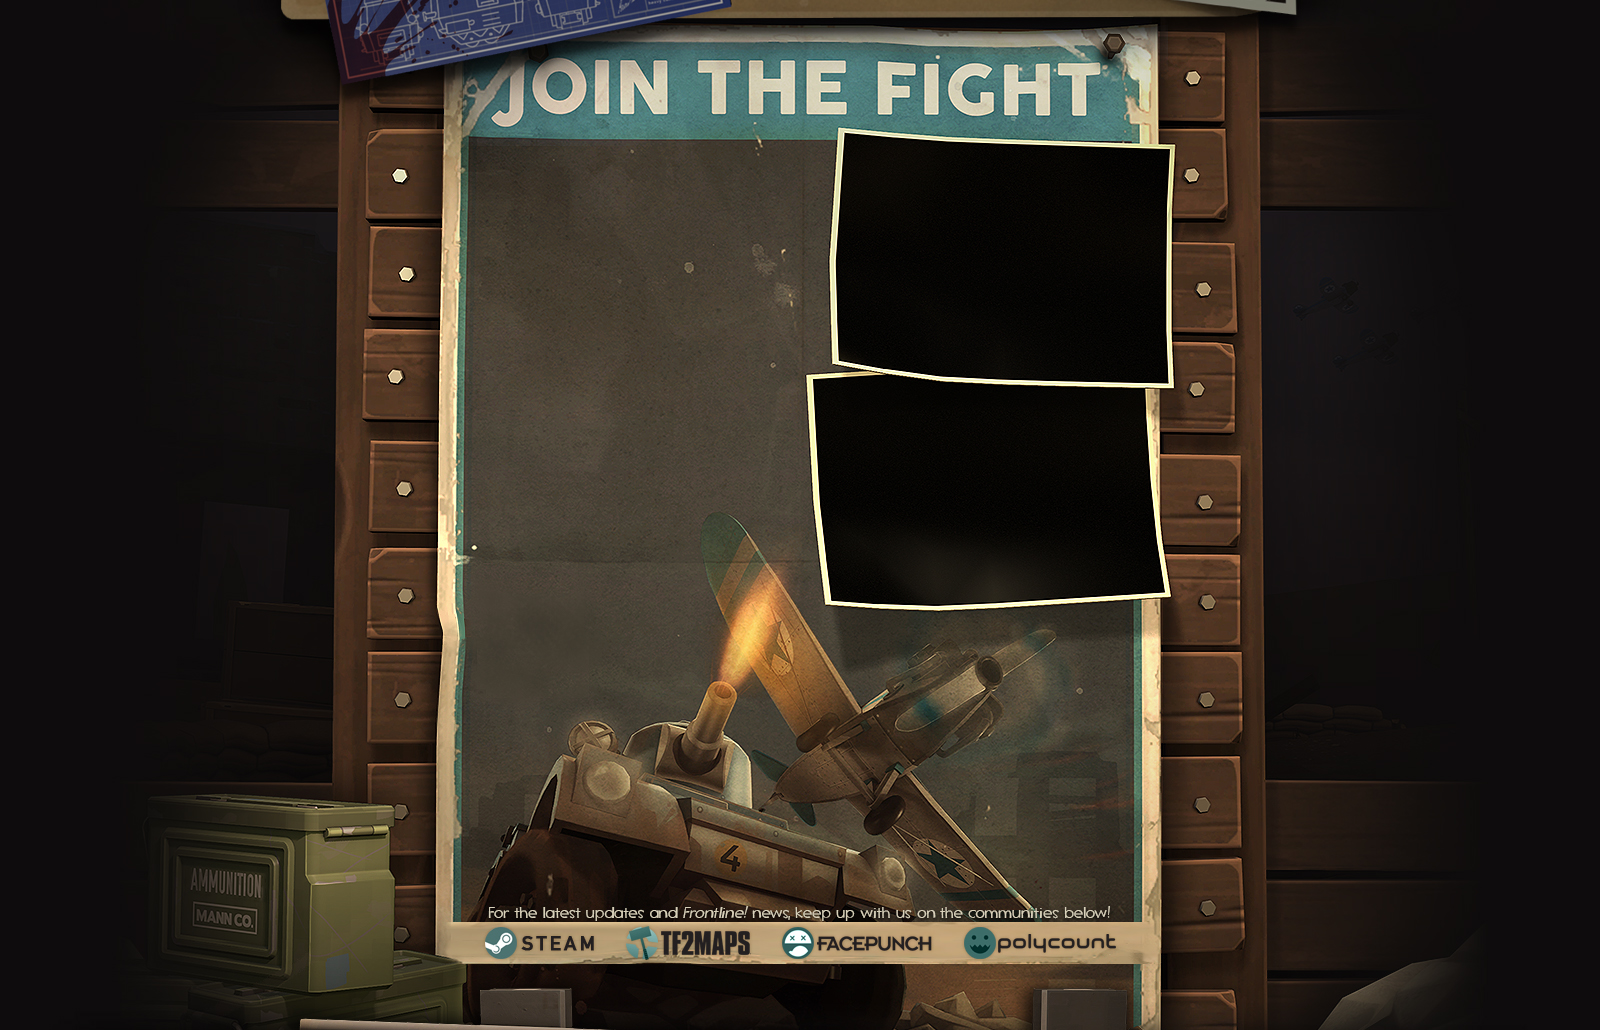
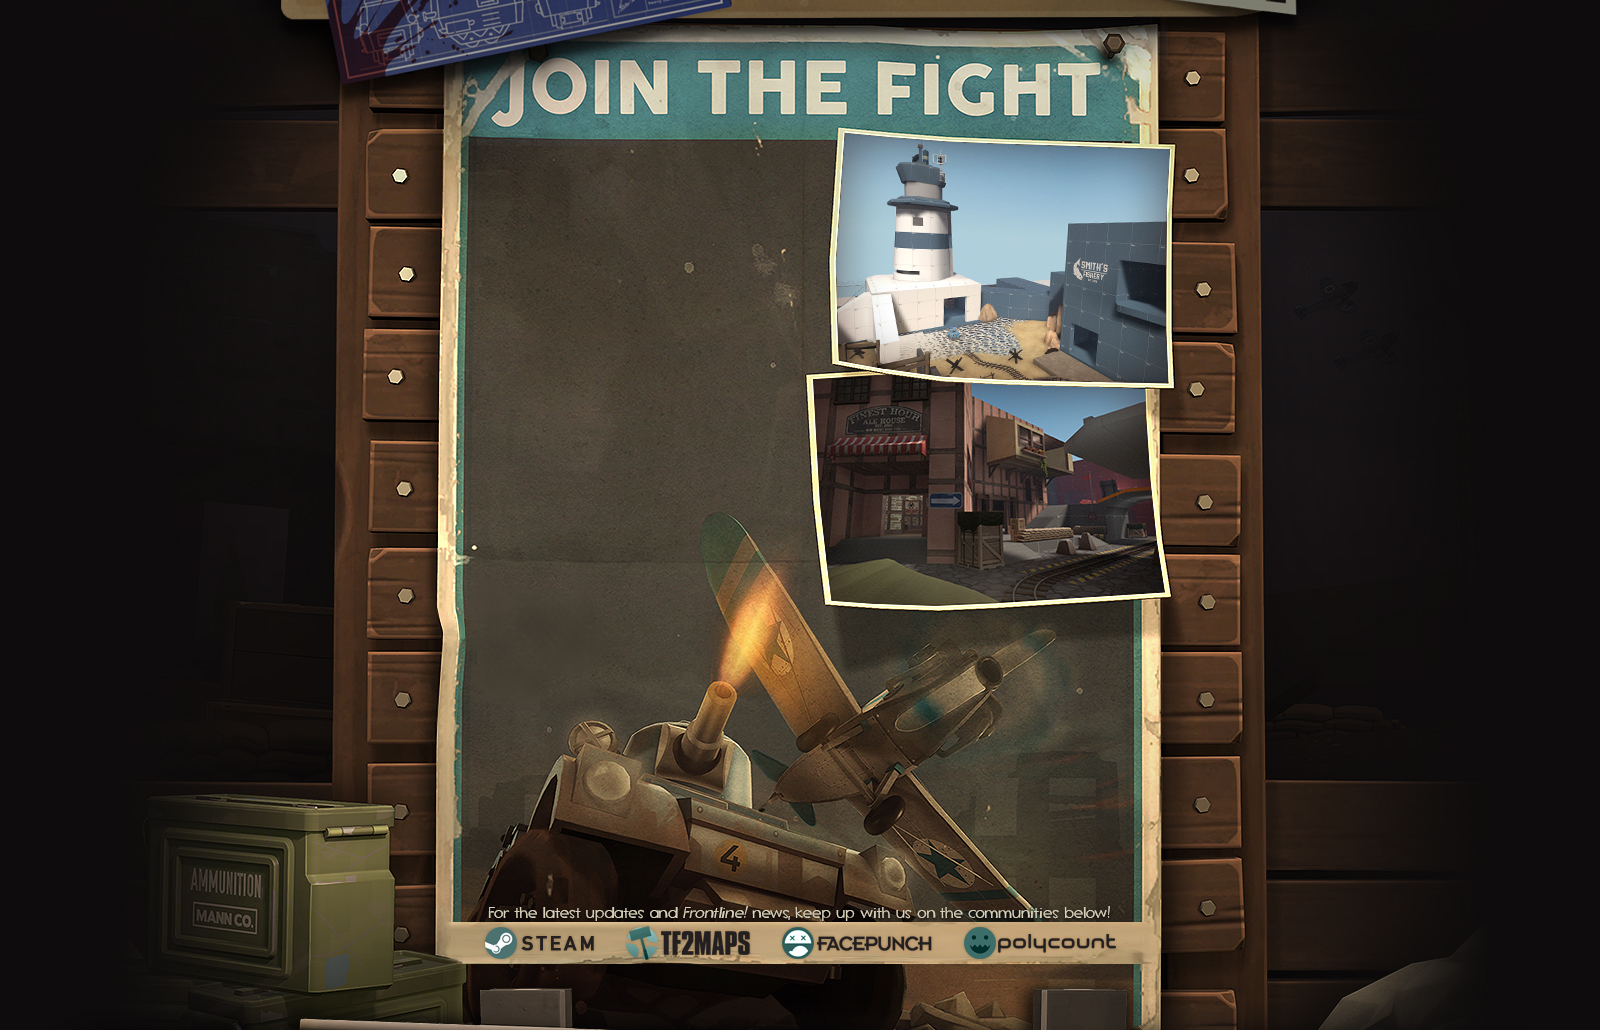
Further work

Changed region(s): [[0.5, 0.1243, 0.75, 0.5903]]

diff --git a/index.html b/index.html
@@ -6,6 +6,7 @@
 <body>
 	<div class="container" id="container_1">
 		<div class="content" id="content_1">
+			<a class="button" id="tf" href="//teamfortress.com" target="_blank"></a>
 		</div>
 	</div>
 	<div class="container" id="container_2">
@@ -15,6 +16,7 @@
 				<br/><br/>
 				<span class="emph">Frontline!</span> is a community-created war effort that aims to rally the troops of the TF2 contributing community and show everyone what they're capable of. Whatever art of war you partake in, we want you to join. Now slap on your helmet and grab your rifle, as we invite you into the midst of all-out war!
 			</div>
+			<iframe class="video" src="http://www.youtube.com/embed/dQw4w9WgXcQ?showinfo=0&amp;vq=hd720&amp;rel=0&amp;autohide=1" frameborder="0" allowfullscreen=""></iframe>
 		</div>
 	</div>
 	<div class="container" id="container_3">
@@ -24,6 +26,7 @@
 				<br/><br/>
 				From AA Guns to Zeppelins, we've got everything you need to win a war!
 			</div>
+			<a href="#" class="button" id="pack" target="_blank"></a>
 		</div>
 	</div>
 	<div class="container" id="container_4">
@@ -37,12 +40,15 @@
 				<br/><br/>
 				That's right, <span class="italic">this war ain't over yet</span>.
 			</div>
+			<a href="#" class="button" id="dl1" target="_blank"></a>
+			<a href="#" class="button" id="dl2" target="_blank"></a>
+			<a href="#" class="button" id="collection" target="_blank"></a>
 		</div>
 	</div>
 	<div class="container" id="container_5">
 		<div class="content" id="content_5">
 			<div class="text" id="map">
-				Over recent months, our resident mapper, Harlen “UEAKCrash” Linke, has been working undercover on his very own military operation, and we're now lifting the veil to reveal the in-development Payload map <span class="emph">Shoreleave</span>!
+				Over recent months, our resident mapper, Harlen "UEAKCrash" Linke, has been working undercover on his very own military operation, and we're now lifting the veil to reveal the in-development Payload map <span class="emph">Shoreleave</span>!
 				<br/><br/>
 				Previously developed under the working title of Prep Up, Shoreleave is currently only in its alpha stage, and there is plenty of work still to be done! You can follow the development of Crash's map <a href="#">here</a> and see his take on the theme and how he has put our map pack to use - which we hope will inspire you to work on your very own <span class="emph">Frontline!</span> map!
 				<br/><br/>
@@ -50,6 +56,10 @@
 				<br/><br/>
 				<span class="italic">We'll see you on the <span class="emph">Frontline!</span></span>
 			</div>
+			<a href="#" class="button" id="steam" target="_blank"></a>
+			<a href="#" class="button" id="tf2m" target="_blank"></a>
+			<a href="#" class="button" id="facepunch" target="_blank"></a>
+			<a href="#" class="button" id="polycount" target="_blank"></a>
 		</div>
 	</div>
 	<div class="container" id="container_6">
@@ -62,7 +72,7 @@
 				<div class="answer">A. Ultimately, Valve decides what is added to their game, so who are we to judge? That being said, if you can upload it to the Steam Workshop, we can add it to our Collection. That includes <span class="bold">cosmetic items</span>, <span class="bold">weapons</span>, <span class="bold">taunts</span>, <span class="bold">unusual effects</span>, and <span class="bold">maps</span>. We fully understand how much time it takes for some of those, but we fully encourage you to pursue whatever you'd like!</div>
 
 				<div class="question">Q. What <span class="italic">can't</span> I submit to the project?</div>
-				<div class="answer">A. Despite the wartime theming, we highly discourage any content based on or influenced by racist or xenophobic imagery. Have some respect, and use your best judgment - any submissions that have these problems will be excluded from the collection and distanced from the project. If in doubt, refer to Valves own <a href="#">guidelines</a> for TF2 Content Creation.</div>
+				<div class="answer">A. Despite the wartime theming, we highly discourage any content based on or influenced by racist or xenophobic imagery. Have some respect, and use your best judgment - any submissions that have these problems will be excluded from the collection and distanced from the project. If in doubt, refer to Valve's own <a href="#">guidelines</a> for TF2 Content Creation.</div>
 
 				<div class="question">Q. If I submit my work, how will it be determined whether or not it will be included in the game?</div>
 				<div class="answer">A. While, we are the ones that add your submission to the Workshop Collection, <span class="bold">we do not choose what items are added in-game</span>, if any! That decision is to be made by <span class="bold">Valve</span>, and Valve alone. Because of this, <span class="emph">Frontline!</span> is an equal-opportunity effort, and will stay as such, no matter what!</div>
@@ -91,7 +101,7 @@
 	</div>
 	<div class="container" id="container_7">
 		<div class="content" id="content_7">
-			
+			<a href="battleship.html" class="button" id="battleship"></a>
 		</div>
 	</div>
 </body>

diff --git a/css/main.css b/css/main.css
@@ -1,7 +1,7 @@
 body {
 	margin: 0;
 	padding: 0;
-	color: #e4dbf0;
+	color: #e5e5e5;
 	font-family: Arial, sans-serif;
 	font-size: 16px;
 	background-color: #0E0C0C;
@@ -9,11 +9,10 @@ body {
 }
 a {
 	font-weight: bold;
-	color: #e4dbf0;
-	text-decoration: none;
+	color: #e5e5e5;
 }
 a:hover {
-	color: red;
+	color: #f2f2f2;
 }
 .emph {
 	font-weight: bold;
@@ -44,10 +43,17 @@ a:hover {
 }
 .button {
 	position: absolute;
-	background-position: top;
+	background-position: bottom;
 }
 .button:hover {
-	background-position: bottom;
+	background-position: top;
+}
+.video {
+    width: 855px;
+    height: 480px;
+    left: 19px;
+    top: 423px;
+    position: absolute;
 }
 
 /* Content images */
@@ -99,6 +105,7 @@ a:hover {
     margin: 0;
 }
 #join {
+	color: #2f2c2b;
     margin: 0;
     top: 151px;
     left: 59px;
@@ -141,4 +148,76 @@ a:hover {
 
 body {
 	background: url(../images/webpage_wip_17.png) top center no-repeat #0E0C0C;
+}
+
+/* Buttons */
+
+#tf {
+	background-image: url(../images/fl_webpage_final_button_tf.jpg);
+	width: 228px;
+	height: 64px;
+	left: 155px;
+	top: 55px;
+}
+#pack {
+	background-image: url(../images/fl_webpage_final_button_pack.jpg);
+	width:275px;
+	height: 275px;
+	left: 650px;
+	top: 1117px;
+}
+#dl1 {
+	background-image: url(../images/fl_webpage_final_button_dl1.jpg);
+	width: 637px;
+	height: 64px;
+	left: 127px;
+	top: 463px;
+}
+#dl2 {
+	background-image: url(../images/fl_webpage_final_button_dl2.jpg);
+	width: 704px;
+	height: 64px;
+	left: 101px;
+	top: 534px;
+}
+#collection {
+	background-image: url(../images/fl_webpage_final_button_collection.jpg);
+	width: 672px;
+	height: 64px;
+	left: 112px;
+	top: 605px;
+}
+#steam {
+	background-image: url(../images/fl_webpage_final_button_steam.jpg);
+	width: 128px;
+	height: 42px;
+	left: 122px;
+	top: 922px;
+}
+#tf2m {
+	background-image: url(../images/fl_webpage_final_button_tf2m.jpg);
+	width: 140px;
+	height: 42px;
+	left: 262px;
+	top: 922px;
+}
+#facepunch {
+	background-image: url(../images/fl_webpage_final_button_facepunch.jpg);
+	width: 162px;
+	height: 42px;
+	left: 421px;
+	top: 922px;
+}
+#polycount {
+	background-image: url(../images/fl_webpage_final_button_polycount.jpg);
+	width: 162px;
+	height: 42px;
+	left: 604px;
+	top: 922px;
+}
+#battleship {
+	background-image: url(../images/fl_webpage_final_button_battleship.jpg);
+	width: 220px;
+	height: 184px;
+	top: 1004px;
 }
